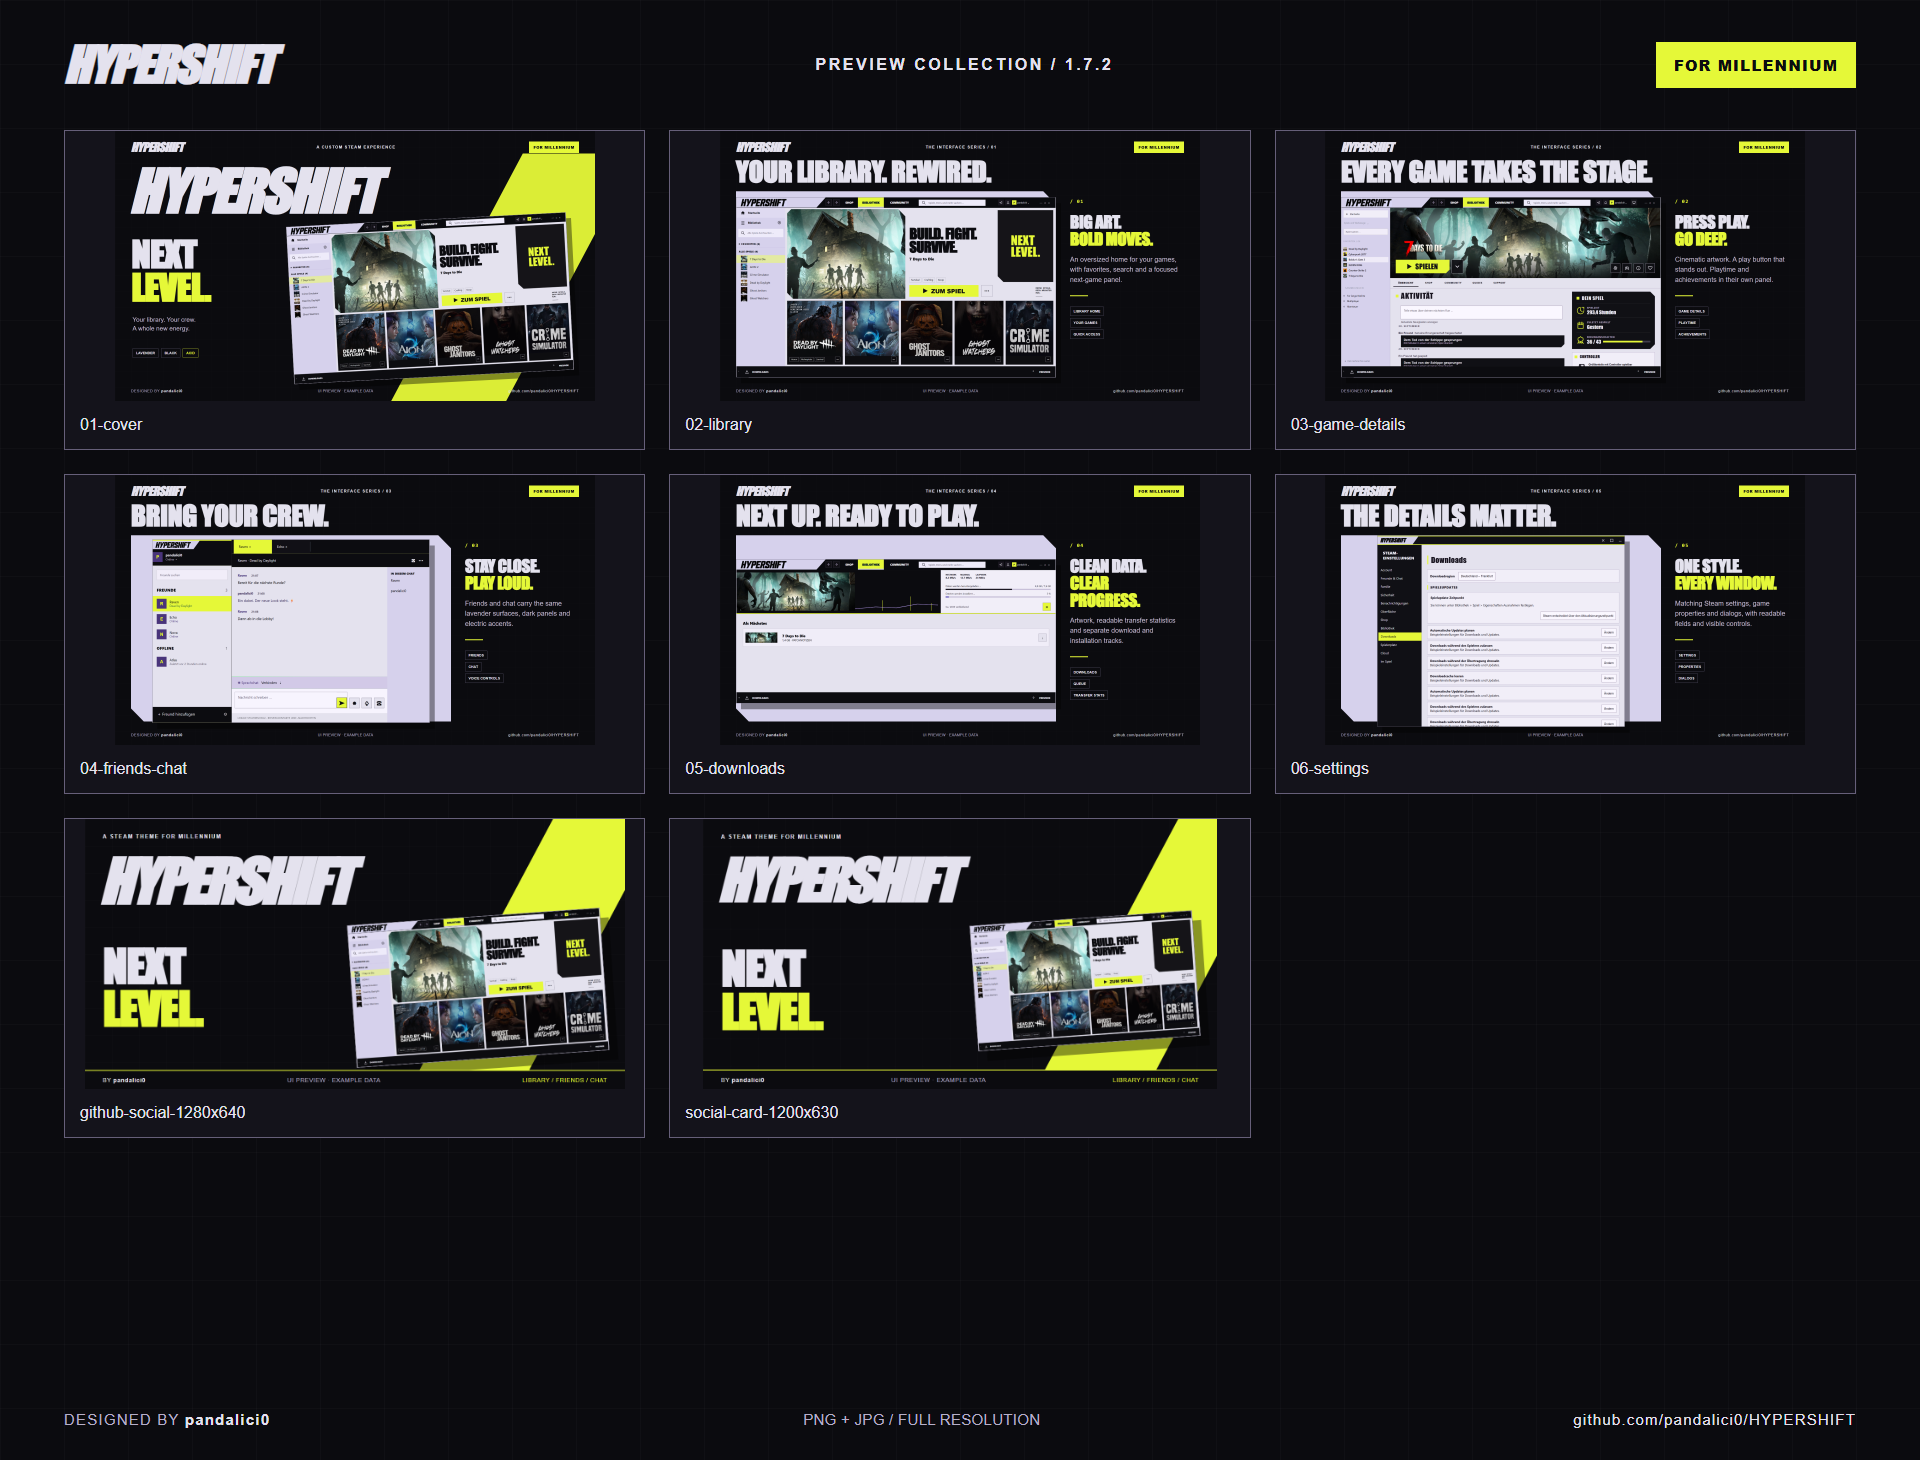
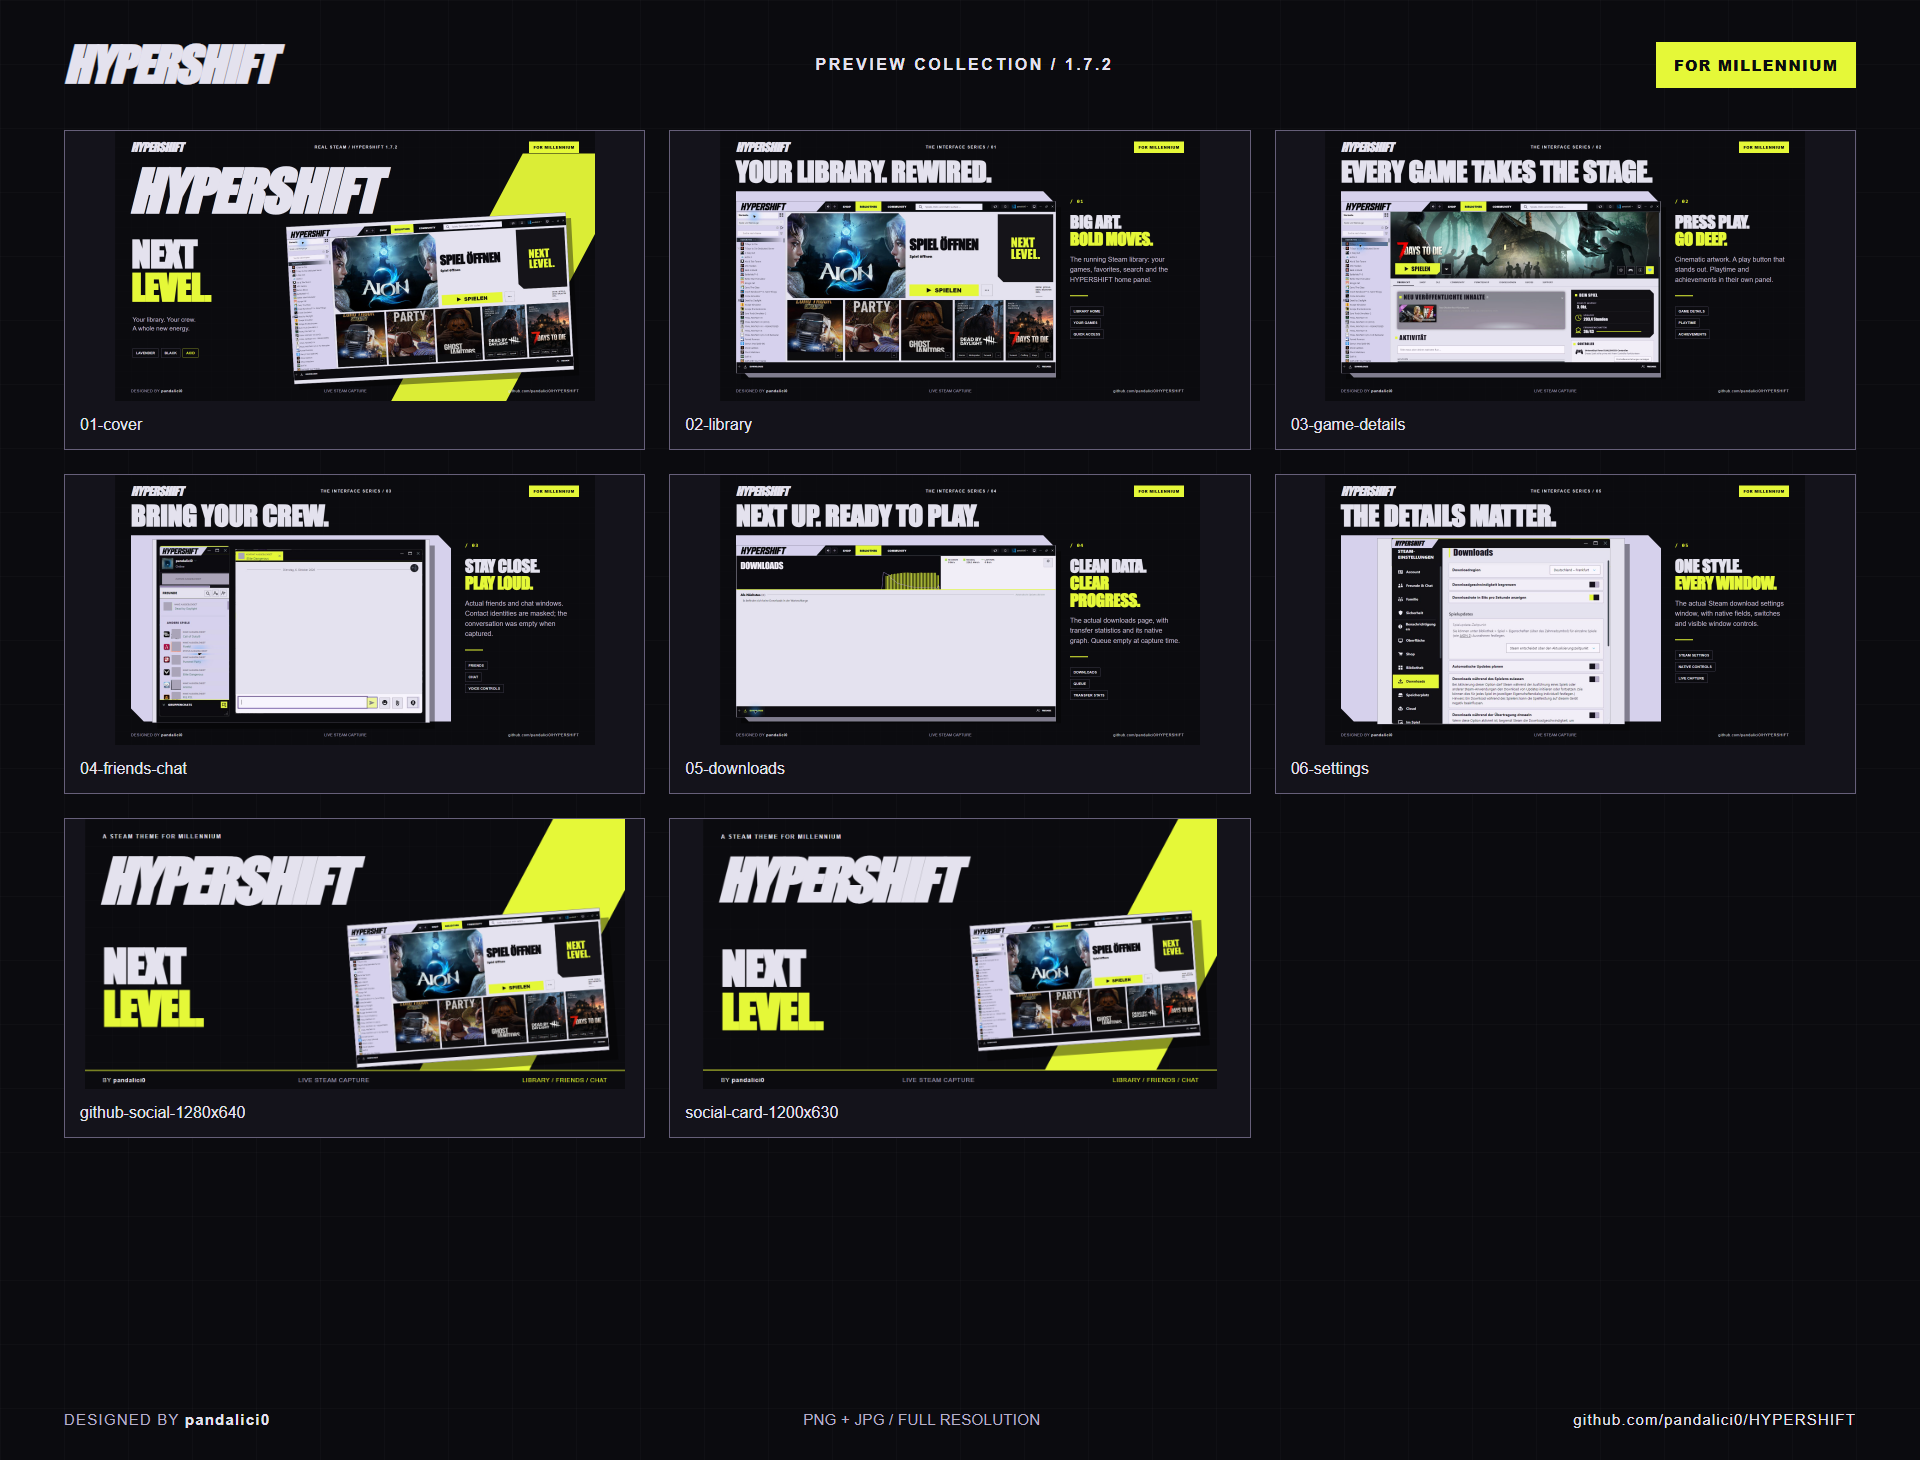
Replace fixture previews with authentic Steam captures

diff --git a/docs/PREVIEWS.md b/docs/PREVIEWS.md
@@ -2,7 +2,9 @@
 
 By **pandalici0**, based on HYPERSHIFT **1.7.2**.
 
-The promotional images use the current theme's CSS and UI models with example data. Contacts, messages, statistics and downloads are illustrative. These are not live-account captures. Game imagery and trademarks remain excluded from the MIT code license; see [NOTICE](../NOTICE.md).
+The gallery uses actual screenshots from the running Windows Steam client with installed HYPERSHIFT 1.7.2, captured on **6 October 2026**. Contact names and third-party avatars are visibly masked. Other UI pixels retain the original layout. The chat conversation and download queue were empty at capture time; no messages, contacts, controls or transfer values were invented. The side-by-side social view combines the two real windows on a plain background.
+
+Promotional frames surround these same captures. Game imagery and trademarks remain excluded from the MIT code license; see [NOTICE](../NOTICE.md).
 
 ## Promotional images
 
@@ -12,8 +14,8 @@ The promotional images use the current theme's CSS and UI models with example da
 | [02-library](images/promo/02-library.png) | 1920 × 1080 | Library showcase |
 | [03-game-details](images/promo/03-game-details.png) | 1920 × 1080 | Play button, statistics and achievements |
 | [04-friends-chat](images/promo/04-friends-chat.png) | 1920 × 1080 | Friends, chat and voice controls |
-| [05-downloads](images/promo/05-downloads.png) | 1920 × 1080 | Transfer graph, progress and queue |
-| [06-settings](images/promo/06-settings.png) | 1920 × 1080 | Settings and dialog styling |
+| [05-downloads](images/promo/05-downloads.png) | 1920 × 1080 | Native transfer graph and empty queue |
+| [06-settings](images/promo/06-settings.png) | 1920 × 1080 | Actual Steam download settings |
 | [github-social-1280x640](images/promo/github-social-1280x640.png) | 1280 × 640 | Repository social preview |
 | [social-card-1200x630](images/promo/social-card-1200x630.png) | 1200 × 630 | Link preview / social post |
 
@@ -28,8 +30,6 @@ Each image has a PNG original and a JPG version with the same name. Use JPG for 
 - [Friends and chat](images/social.png), plus separate [friends](images/friends.png) and [chat](images/chat.png) views
 - [Downloads](images/downloads.png)
 - [Steam settings](images/settings.png)
-- [Game properties](images/properties.png)
-- [Steam menu](images/steam-menu.png)
 
 ## Rebuild the promotional layouts
 
@@ -43,4 +43,4 @@ node tools/render-previews.cjs
 
 On Windows with Edge installed, set `HYPERSHIFT_BROWSER_CHANNEL=msedge`. The artwork uses local Impact/Arial fonts; font substitution on other systems can change typography.
 
-Deutsch: Für die README `01-cover.jpg` verwenden. Die fünf Showcase-Motive zeigen die Bereiche im Detail. `github-social-1280x640.png` ist für die Repository-Linkvorschau vorbereitet. PNG und JPG sowie die reinen UI-Bilder sind im Paket enthalten. Alle Kontakte und Nachrichten sind Beispieldaten.
+Deutsch: Für die README `01-cover.jpg` verwenden. Die fünf Showcase-Motive zeigen die Bereiche im Detail. `github-social-1280x640.png` ist für die Repository-Linkvorschau vorbereitet. PNG und JPG sowie die reinen UI-Bilder sind im Paket enthalten. Die UI-Bilder stammen direkt aus Steam; Kontaktnamen und fremde Avatare sind abgedeckt. Der leere Chat entspricht dem tatsächlichen Aufnahmezustand.

diff --git a/README.md b/README.md
@@ -43,19 +43,11 @@ The repository also has ready-built files: a clone or source archive can be plac
 
 [Full preview gallery and image sizes](docs/PREVIEWS.md). PNG originals and lighter JPG versions are included.
 
-![Native Steam game properties](docs/images/properties.png)
-
-New in 1.7.0: native Steam properties/settings and auxiliary windows. This preview uses a local fixture with the installed Steam CSS.
-
-| Game details | Steam menu |
-| --- | --- |
-| ![Game detail layout](docs/images/game-details.png) | ![Custom Steam menu](docs/images/steam-menu.png) |
-
 | Friends | Chat |
 | --- | --- |
-| ![Friends list](docs/images/friends.png) | ![Chat](docs/images/chat.png) |
+| ![Actual friends window](docs/images/friends.png) | ![Actual chat window](docs/images/chat.png) |
 
-The updated previews use HYPERSHIFT 1.7.2 styles in local UI models with example data. They are not captures of private accounts; game artwork and trademarks belong to their owners. Promotional layouts frame the same screenshots without inventing additional controls.
+All gallery images are screenshots from the running Windows Steam client with HYPERSHIFT 1.7.2, captured on 6 October 2026. Contact names and third-party avatars are visibly masked. The chat was empty and the download queue was empty at capture time. The promotional frames do not change the captured interface. Game artwork and trademarks belong to their owners.
 
 ## Development
 

diff --git a/README.de.md b/README.de.md
@@ -57,11 +57,7 @@ node --check libraryroot.custom.js
 
 [Vollständige Galerie und Bildformate](docs/PREVIEWS.md). Alle Motive sind als PNG und JPG enthalten.
 
-![Native Spieleigenschaften](docs/images/properties.png)
-
-Neu in 1.7.0: native Steam-Einstellungen, Spieleigenschaften und weitere Fenster. Diese Vorschau ist ein lokaler Testaufbau mit Steams Original-CSS.
-
-Die aktualisierten Vorschauen zeigen HYPERSHIFT 1.7.2 anhand lokaler UI-Modelle mit Beispieldaten. Sie enthalten keine privaten Kontaktlisten oder echten Chatverläufe. Die Werbemotive rahmen diese Screenshots ein; Spielebilder und Marken gehören ihren jeweiligen Rechteinhabern.
+Alle Galerie-Bilder sind echte Aufnahmen aus dem laufenden Windows-Steam mit HYPERSHIFT 1.7.2 vom 6. Oktober 2026. Kontaktnamen und fremde Avatare sind sichtbar abgedeckt. Chat und Download-Warteschlange waren bei der Aufnahme leer. Die Werberahmen verändern die aufgenommene Oberfläche nicht. Spielebilder und Marken gehören ihren jeweiligen Rechteinhabern.
 
 Entwickelt für den Windows-Steam-Desktop und Millennium 3.5.0. Zusätzliche Theme-Texte sind derzeit deutsch; Steams eigene Texte verwenden dessen eingestellte Sprache. Shop/Community erhalten Aktionsakzente. Big Picture bekommt Farbakzente und kein vollständiges Desktop-Layout.
 

diff --git a/docs/WINDOW-COVERAGE.md b/docs/WINDOW-COVERAGE.md
@@ -24,7 +24,7 @@ Actions remain Steam actions. No additional JavaScript is injected for these win
 - Navigation, toggles including native pseudo-elements, dropdowns, inputs, primary/disabled actions and all three window-control hit targets.
 - Selected server/storage/cloud rows and unchanged 40px example virtual-row geometry.
 - Library regression tests with the new stylesheet loaded alongside the main theme.
-- Previews use synthetic example data, not private accounts or system reports.
+- Automated tests use synthetic fixtures. Public previews use live Steam captures, with contact names and third-party avatars visibly masked.
 
 These checks use local DOM fixtures and selectors from the installed client. They are not live tests of every account, hardware, login, recording or game state. Reopen existing popup windows after reloading the theme, then report any remaining unstyled area with a screenshot.
 
